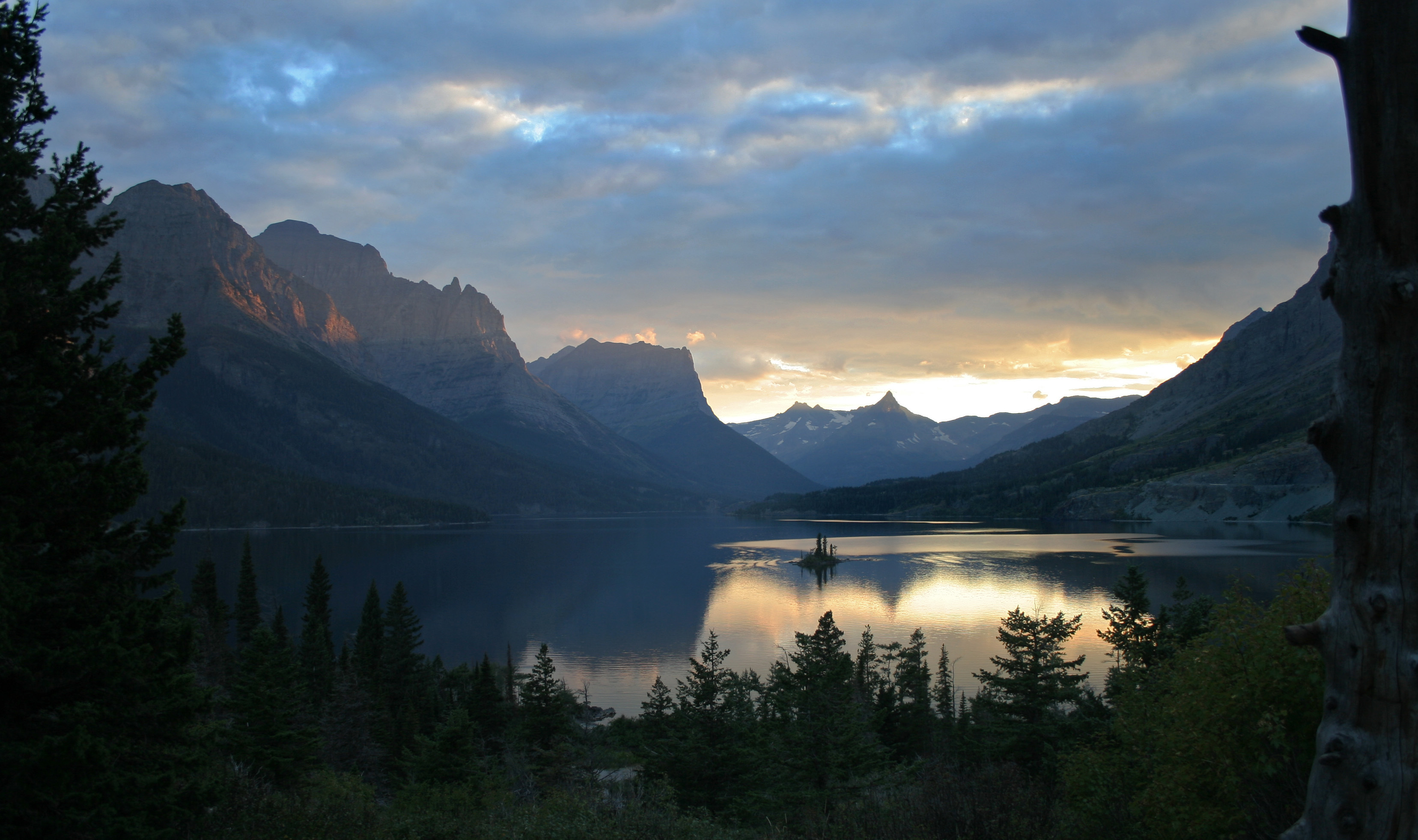
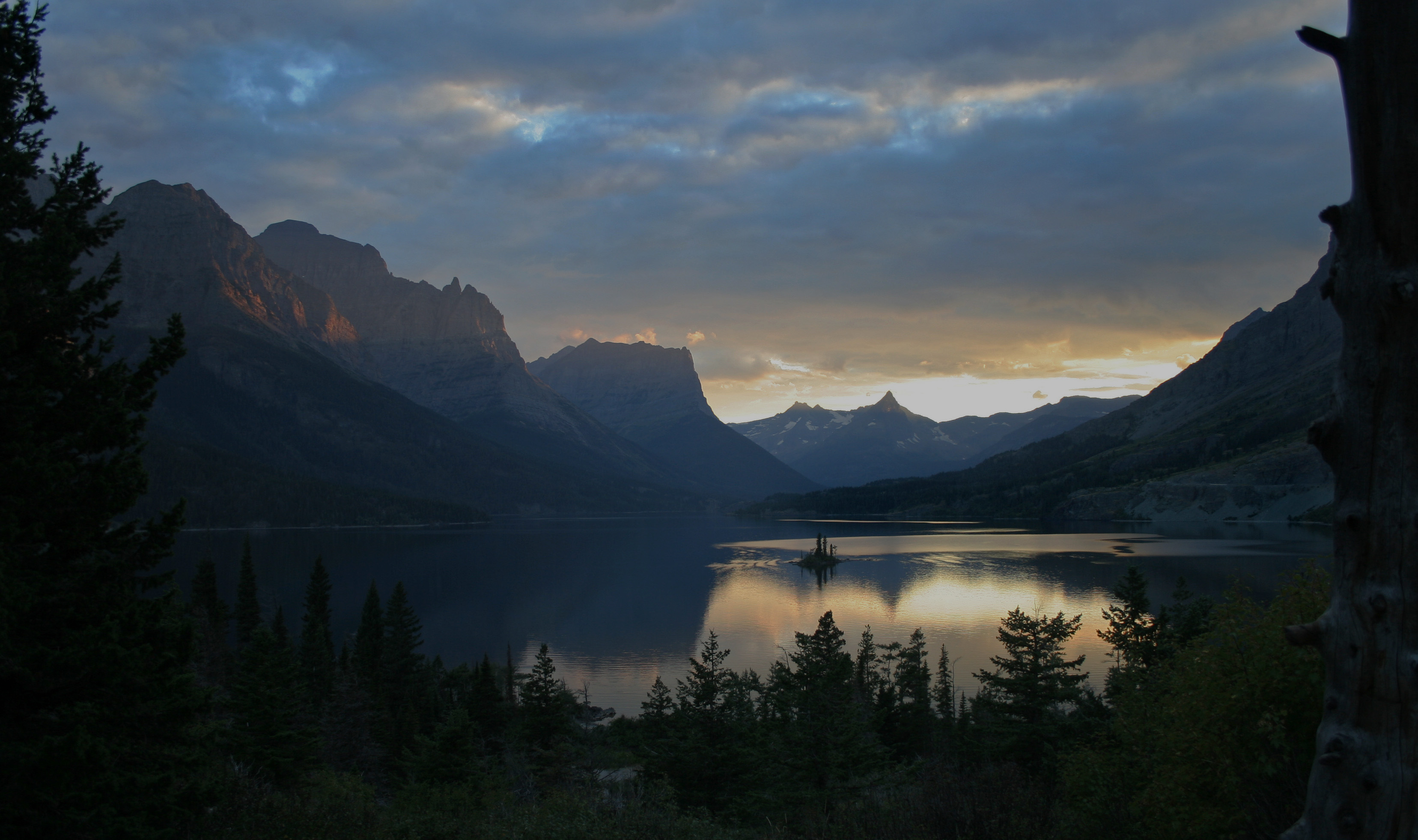
removing overlay and adding it to the image

diff --git a/styles/style.css b/styles/style.css
@@ -36,7 +36,6 @@ i {
     top: 50%;
     left: 50%;
     transform: translate(-50%, -50%);
-    background-color: rgba(0, 0, 0, 0.15);
 }
 .ui_data {
     width: 100%;
@@ -44,7 +43,6 @@ i {
     top: 50%;
     left: 50%;
     transform: translate(-50%, -50%);
-    background-color: rgba(0, 0, 0, 0.15);
 }
 .questioncount {
     float: right;
